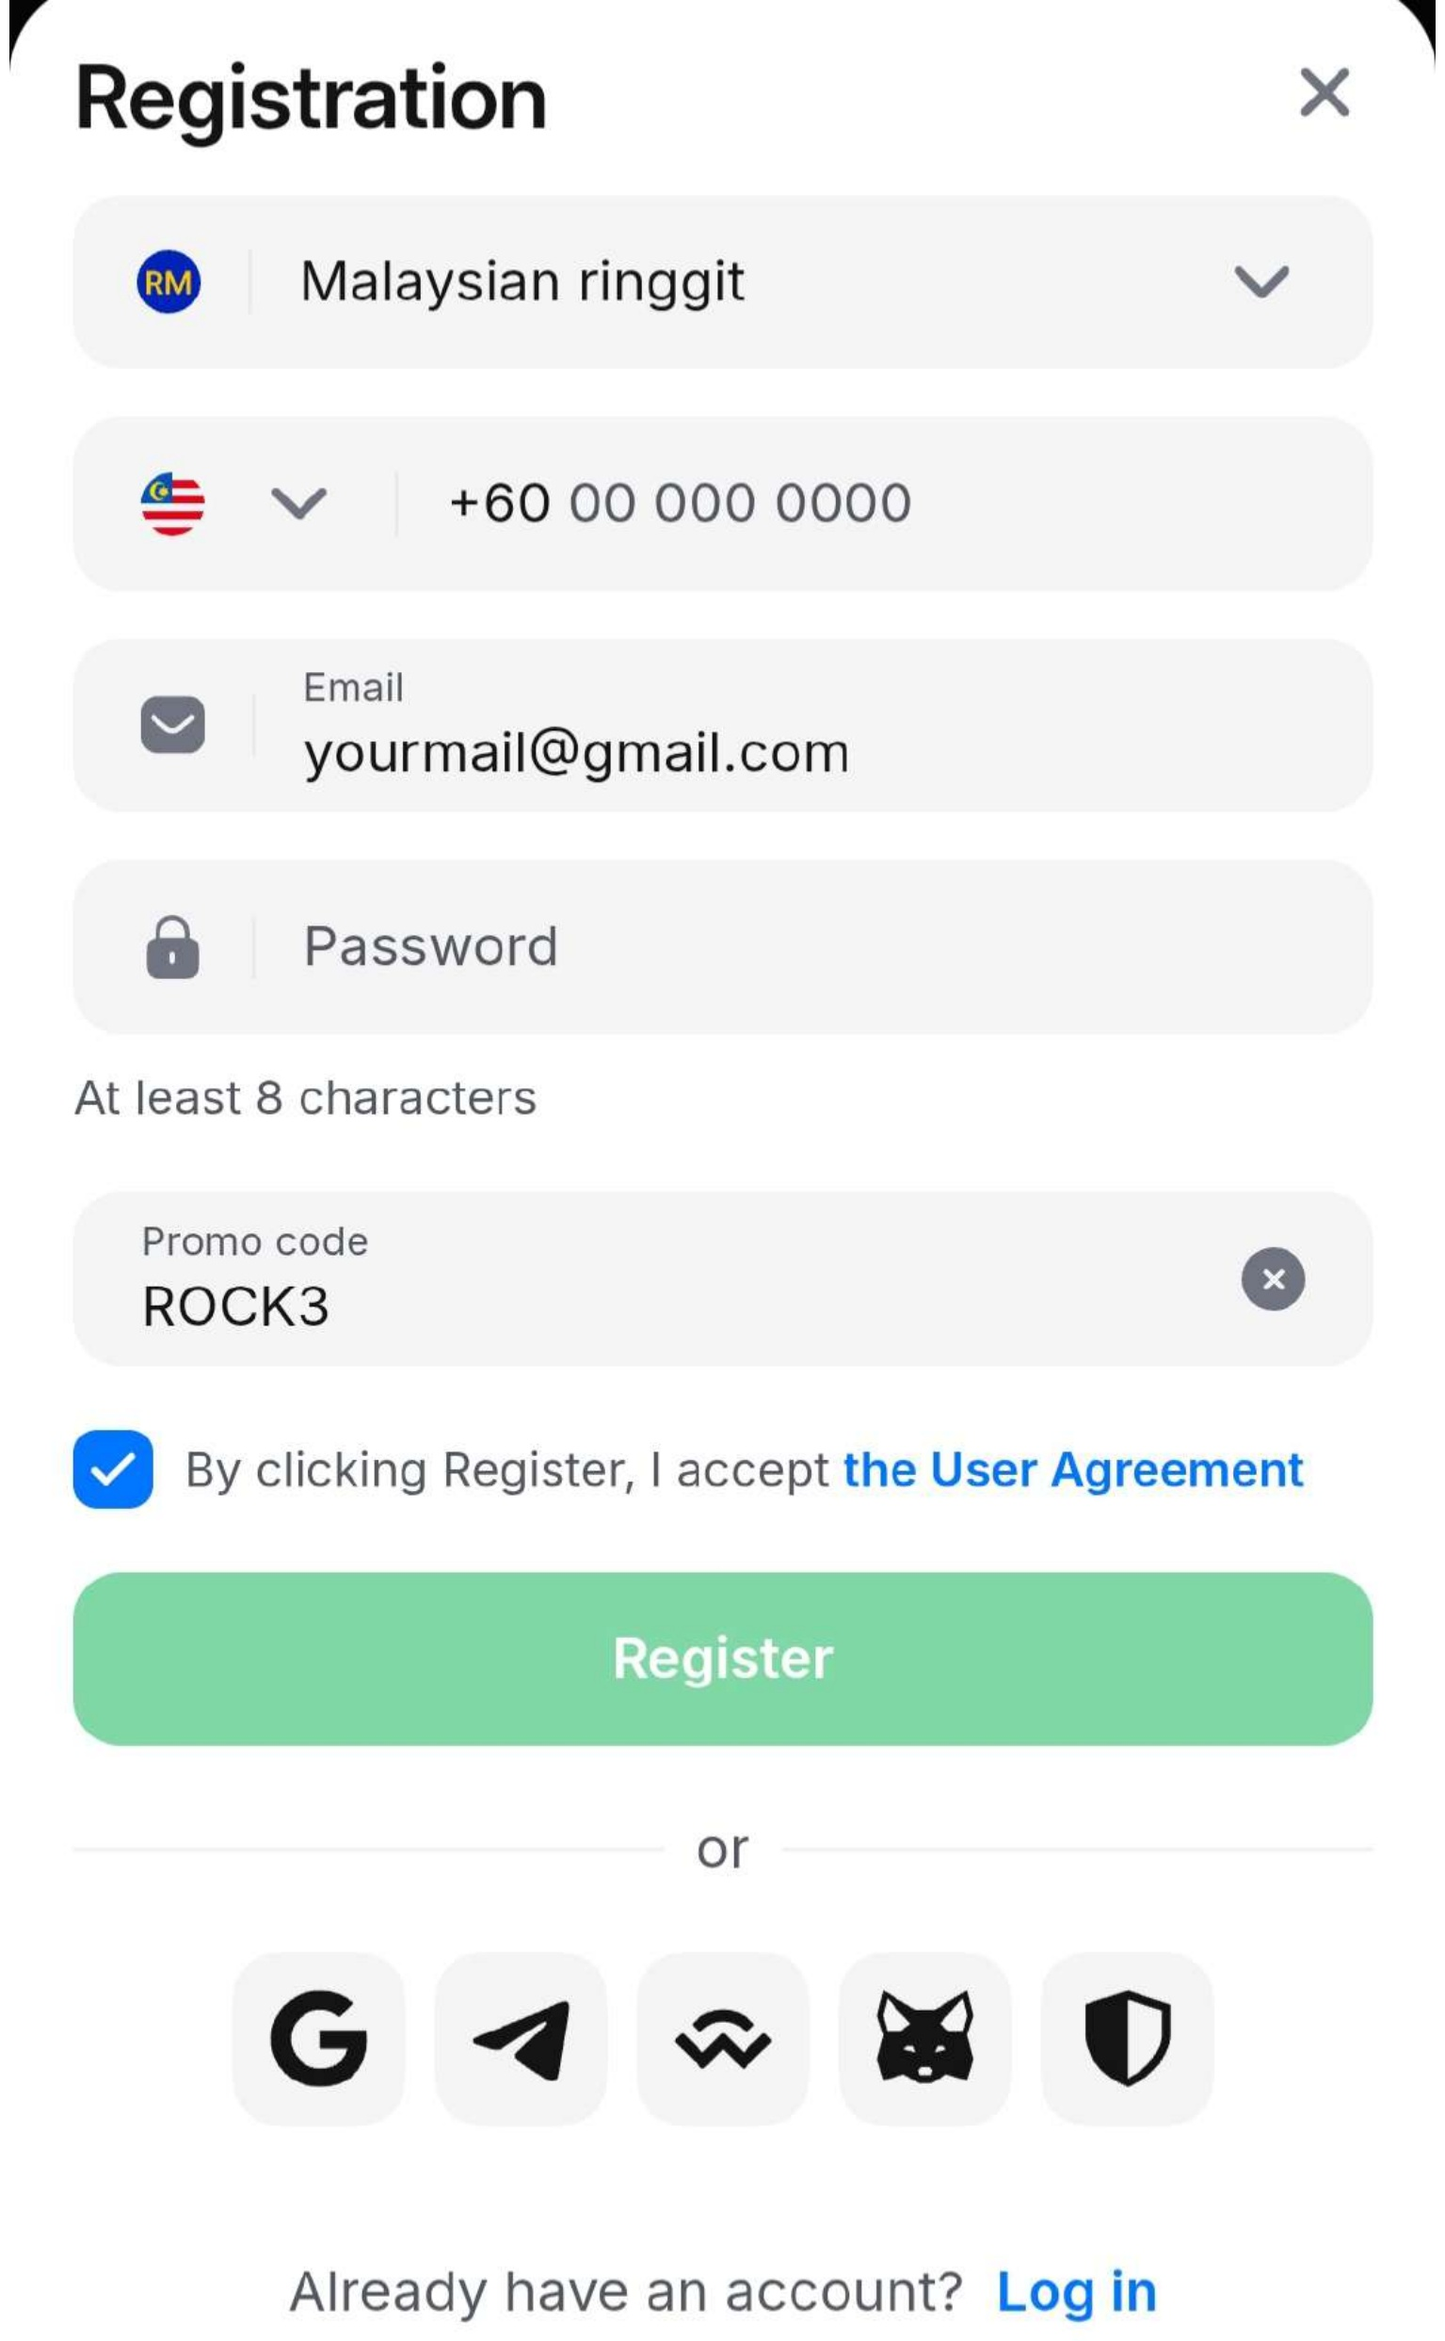
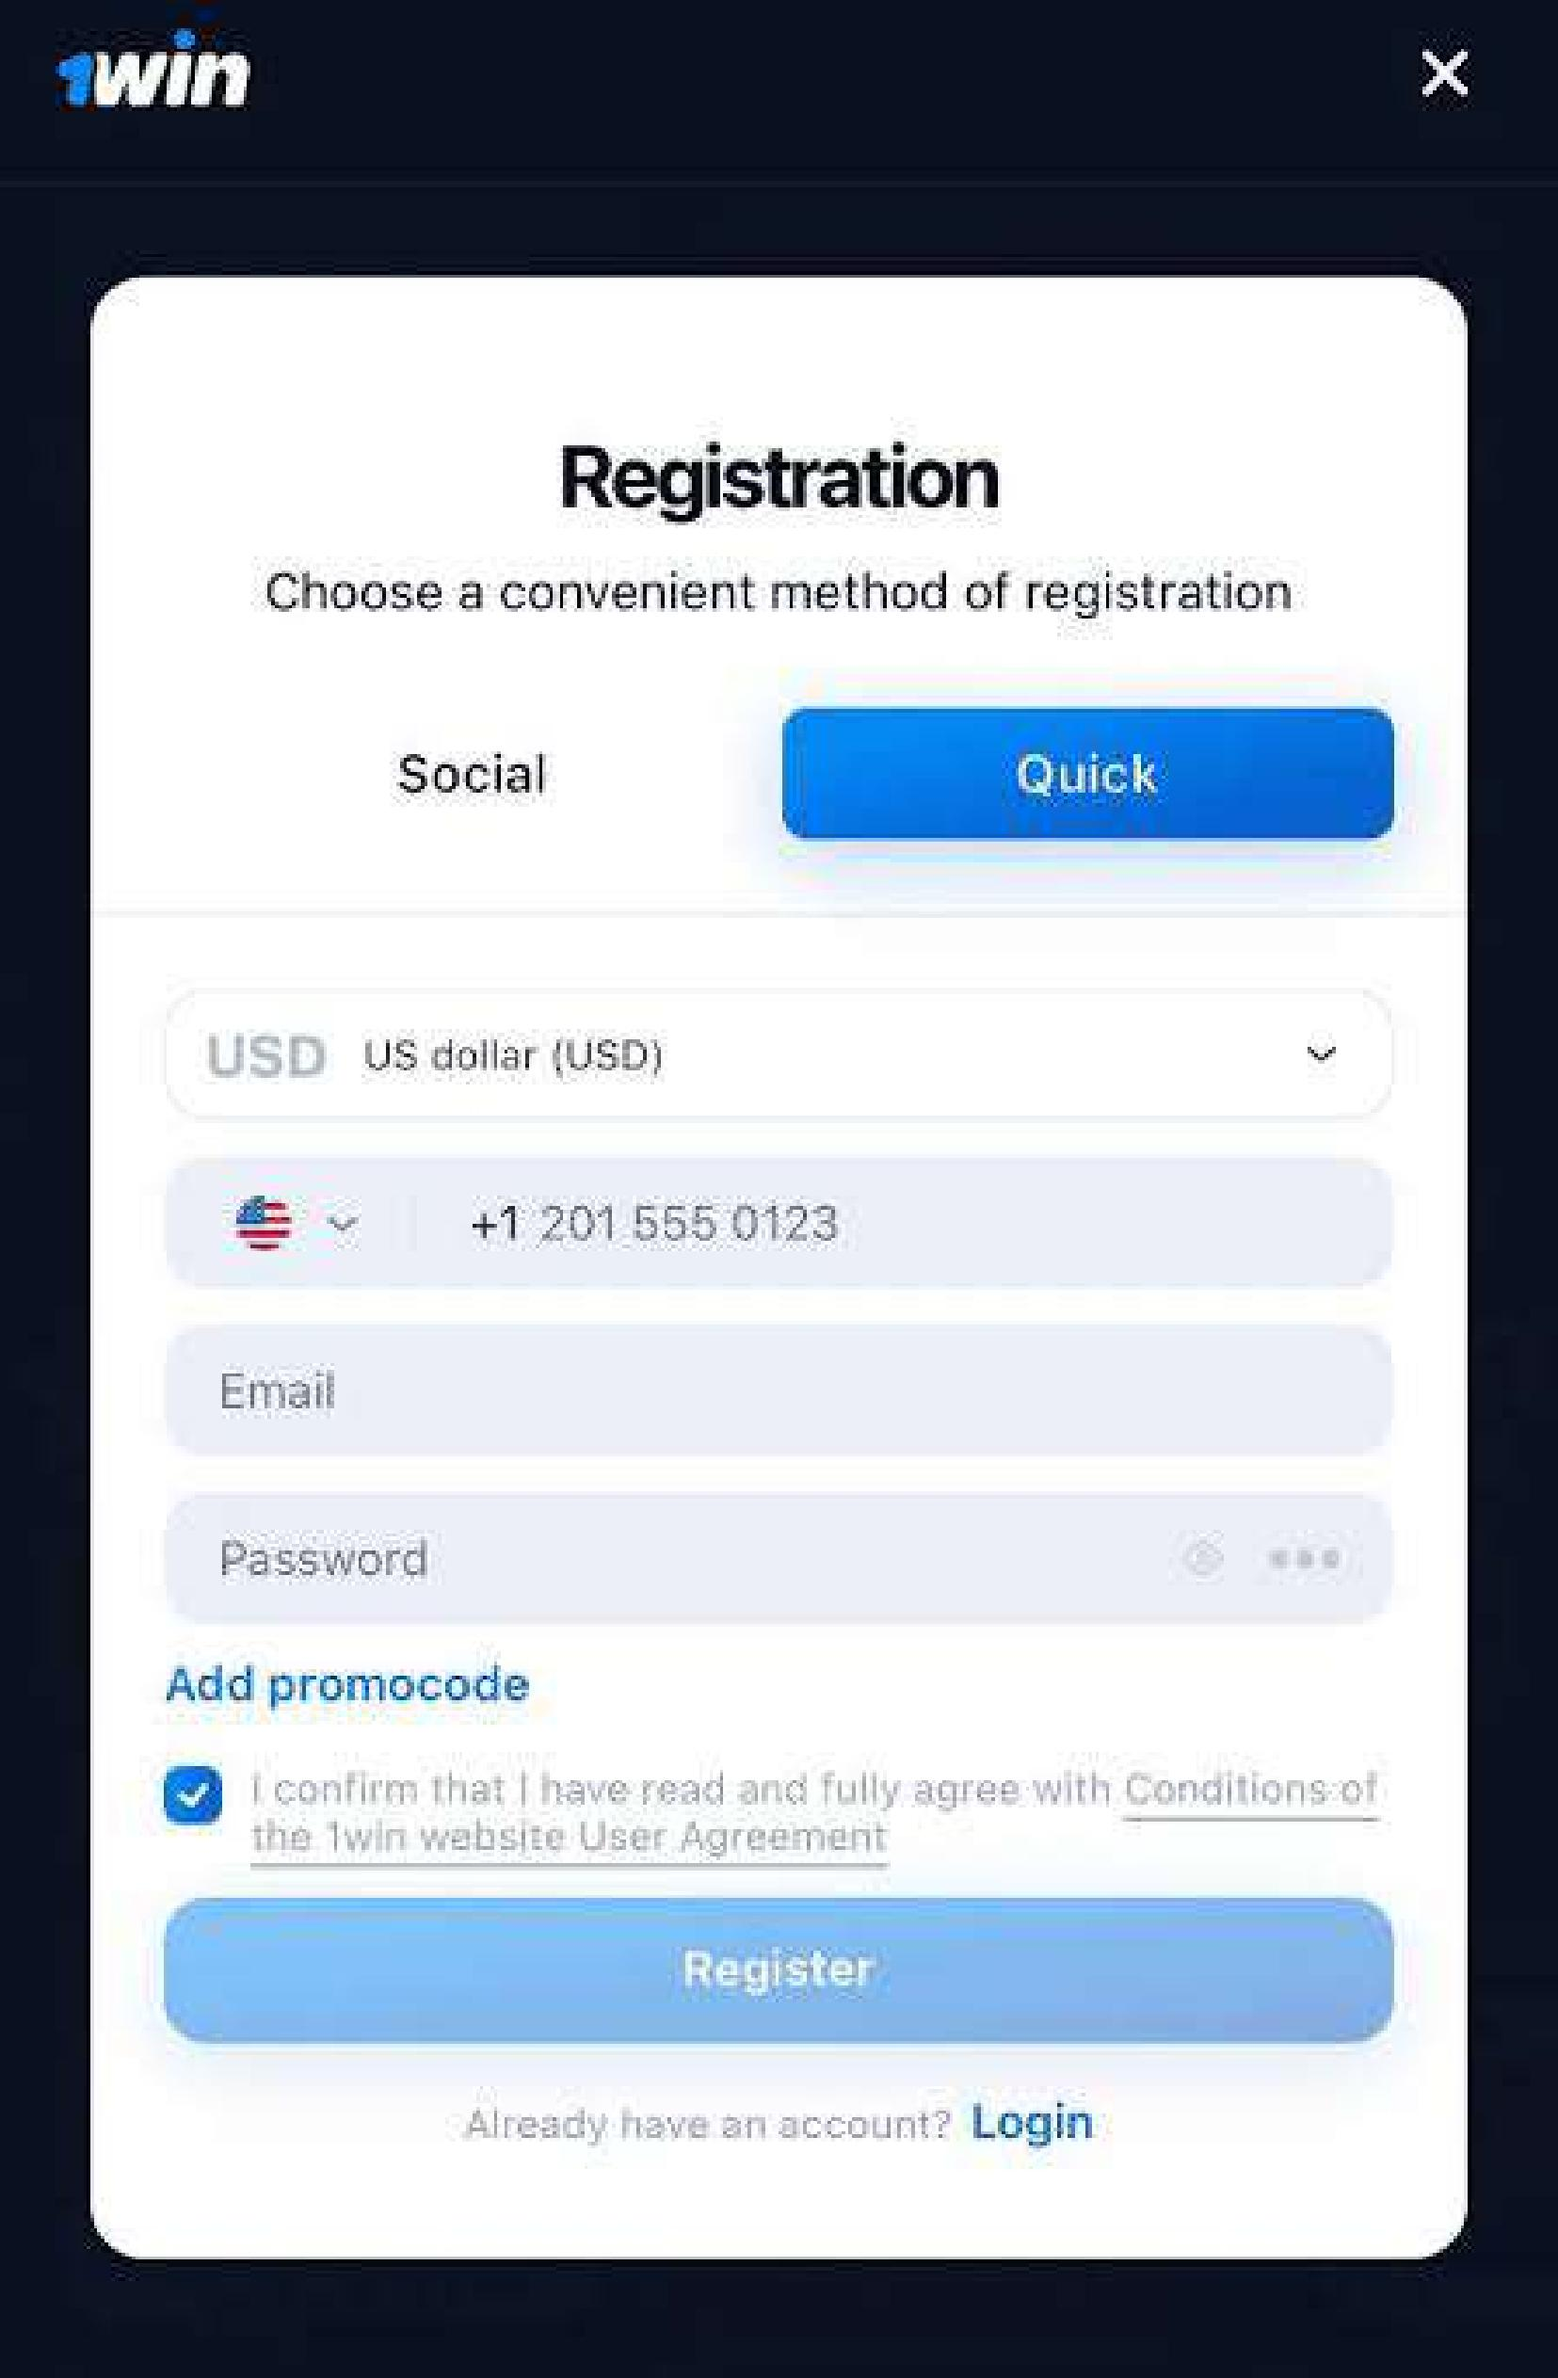
Add Mandarin Chinese (zh) and update Spanish (es) with user uploaded registration cards

diff --git a/locales.py b/locales.py
@@ -53,6 +53,12 @@ LANGUAGES = {
         "flag": "🇩🇪",
         "channel": "https://t.me/Royal_Bet_King6",
     },
+    "zh": {
+        "code": "zh",
+        "name": "中文 (Mandarin)",
+        "flag": "🇨🇳",
+        "channel": "https://t.me/Royal_Bet_King",
+    },
 }
 
 DEFAULT_LANG = "hi"
@@ -949,6 +955,110 @@ STRINGS = {
             "━━━━━━━━━━━━━━━━━━━━━━\n"
             "① Einzahlung abschließen\n"
             "② Sobald bestätigt, <b>senden Sie Ihre 1win-ID hierher</b>, um die Live-Signale zu starten! 🚀"
+        ),
+    },
+    # =========================================================
+    # 🇨🇳 MANDARIN CHINESE
+    # =========================================================
+    "zh": {
+        "lang_name": "中文",
+        "welcome": (
+            "👑 <b>皇家飞行员VIP精准预测器 • v4.2 PRO</b>\n"
+            "━━━━━━━━━━━━━━━━━━━━━━\n"
+            "👋 欢迎，<b>{first_name}</b>！\n\n"
+            "🟢 <b>系统状态：</b> 联机已同步\n"
+            "⚡ <b>信号准确率：</b> 99.4% 精确倍数\n"
+            "🎁 <b>VIP首充红利：</b> +500% 独家奖励\n\n"
+            "━━━━━━━━━━━━━━━━━━━━━━\n"
+            "🚀 <b>只需3个简单步骤即可激活：</b>\n"
+            "1⃣ 点击下方 <b>在 1WIN 注册</b> 创建新账户\n"
+            "2⃣ Promo Code 优惠码：<code>{promo_code}</code> <i>(点击复制)</i>\n"
+            "3⃣ 完成充值并在此发送您的 <b>1win 用户ID</b>！ ✅\n\n"
+            "━━━━━━━━━━━━━━━━━━━━━━\n"
+            "🎟 <b>专属优惠码：</b> <code>{promo_code}</code>\n"
+            "📲 <b>预测器应用：</b> <a href=\"{apk_url}\">点击下载 APK</a>\n\n"
+            "👇 <b>点击下方按钮或直接发送您的 1win ID：</b>"
+        ),
+        "btn_register": "🚀 在 1WIN 注册 (+500% 红利)",
+        "btn_apk": "📲 下载预测器 APK",
+        "btn_guide": "📖 新手图文指引",
+        "btn_promo": "🎟 复制优惠码",
+        "btn_enter_id": "🆔 提交 1WIN ID",
+        "btn_channel": "📢 官方 VIP 频道",
+        "btn_support": "💬 24/7 VIP 客服",
+        "btn_lang": "🌐 切换语言 / LANGUAGE",
+        "btn_change_id": "🔄 更换 ID",
+        "btn_main_menu": "🏠 主菜单",
+        "btn_try_again": "🔄 重试",
+        "btn_activate_signals": "👑 联系客服激活 VIP 信号",
+        "btn_deposit_guide": "💳 充值指南",
+        "promo_copied_toast": "优惠码: {promo_code} (已复制!)",
+        "promo_details": (
+            "🎟 <b>官方 VIP 专属优惠码</b>\n"
+            "━━━━━━━━━━━━━━━━━━━━━━\n\n"
+            "👉  <code>{promo_code}</code>  👈\n\n"
+            "<i>(点击代码即可复制!)</i>\n\n"
+            "✅ <b>VIP 特权：</b>\n"
+            "• 首次充值立享 <b>+500% 欢迎红利</b>\n"
+            "• 与 <b>Royal Aviator Predictor</b> 实时同步\n"
+            "• 极速优先提现通道"
+        ),
+        "enter_id_prompt": (
+            "🆔 <b>发送您的 1WIN 用户 ID</b>\n"
+            "━━━━━━━━━━━━━━━━━━━━━━\n"
+            "请在此输入并发送您的 <b>6 至 12 位 1win 账号 ID</b>。\n\n"
+            "📌 <i>示例：</i> <code>85492018</code>\n\n"
+            "👇 <b>请在下方输入框中直接发送：</b>"
+        ),
+        "step1": (
+            "📝 <b>第 1 步（共 3 步）：快速注册与优惠码</b>\n"
+            "━━━━━━━━━━━━━━━━━━━━━━\n"
+            "① 点击下方按钮打开 1win 注册页面\n"
+            "② 选择币种并输入您的<b>手机号与邮箱</b>\n"
+            "③ 在<b>优惠码（PROMO CODE）</b>栏填入：<code>{promo_code}</code>\n"
+            "④ 点击 <b>注册（Register）</b> 按钮。"
+        ),
+        "step2": (
+            "💳 <b>第 2 步（共 3 步）：选择充值方式</b>\n"
+            "━━━━━━━━━━━━━━━━━━━━━━\n"
+            "① 点击右上角绿色的 <b>充值（Deposit）</b> 按钮\n"
+            "② 选择您偏好的支付方式：<b>USDT / 银行卡 / 电子钱包</b>\n"
+            "③ 激活 VIP 信号的推荐充值金额：<b>10 USDT 以上</b>。"
+        ),
+        "step3": (
+            "✅ <b>第 3 步（共 3 步）：确认充值并激活 VIP</b>\n"
+            "━━━━━━━━━━━━━━━━━━━━━━\n"
+            "① 完成充值支付\n"
+            "② 账户余额到账后，<b>在此聊天中发送您的 1win 用户 ID</b>\n"
+            "③ 您的 VIP 预测器将立即自动激活！ 🚀"
+        ),
+        "verified": (
+            "━━━━━━━━━━━━━━━━━━━━━━\n"
+            "✅ <b>账户验证成功！</b>\n"
+            "━━━━━━━━━━━━━━━━━━━━━━\n\n"
+            "🆔 <b>您的 1win ID：</b> <code>{user_id}</code>\n"
+            "🟢 <b>同步状态：</b> 已成功连接预测器系统\n"
+            "⚡ <b>VIP 信号精准度：</b> 99.4%\n\n"
+            "━━━━━━━━━━━━━━━━━━━━━━\n"
+            "🚀 <b>如何开始盈利：</b>\n"
+            "1⃣ 打开 1win 平台上的 <b>Aviator</b> 游戏\n"
+            "2⃣ 保持此聊天窗口开启或下载 APK\n"
+            "3⃣ 按照实时信号倍数自动兑现获利！ 💰\n\n"
+            "👇 <b>点击下方按钮进入官方 VIP 频道获取实时信号：</b>"
+        ),
+        "rejected": (
+            "━━━━━━━━━━━━━━━━━━━━━━\n"
+            "❌ <b>账户未验证！</b>\n"
+            "━━━━━━━━━━━━━━━━━━━━━━\n\n"
+            "🆔 <b>输入的 ID：</b> <code>{user_id}</code>\n\n"
+            "⚠ <b>该 ID 未通过我们的官方链接或优惠码 ({promo_code}) 注册！</b>\n\n"
+            "VIP 预测器与 99.4% 精准信号仅与通过官方邀请链接创建的账户同步。\n\n"
+            "━━━━━━━━━━━━━━━━━━━━━━\n"
+            "🚀 <b>如何正确激活：</b>\n"
+            "1⃣ 点击下方 <b>在 1WIN 注册</b> 按钮\n"
+            "2⃣ 创建新账户时务必填写优惠码 <code>{promo_code}</code>\n"
+            "3⃣ 完成首充并在此发送您的新 ID，即可秒级验证！ ✅\n\n"
+            "<i>如果您确已通过我们链接注册，请联系客服：</i> {support_username}"
         ),
     },
 }

diff --git a/bot.py b/bot.py
@@ -170,15 +170,18 @@ def get_language_keyboard():
             InlineKeyboardButton("🇬🇧 English", callback_data="set_lang:en"),
         ],
         [
+            InlineKeyboardButton("🇨🇳 中文 (Chinese)", callback_data="set_lang:zh"),
             InlineKeyboardButton("🇵🇹 Português", callback_data="set_lang:pt"),
+        ],
+        [
             InlineKeyboardButton("🇪🇸 Español", callback_data="set_lang:es"),
-        ],
-        [
             InlineKeyboardButton("🇫🇷 Français", callback_data="set_lang:fr"),
-            InlineKeyboardButton("🇹🇷 Türkçe", callback_data="set_lang:tr"),
         ],
         [
+            InlineKeyboardButton("🇹🇷 Türkçe", callback_data="set_lang:tr"),
             InlineKeyboardButton("🇹🇭 ไทย (Thai)", callback_data="set_lang:th"),
+        ],
+        [
             InlineKeyboardButton("🇩🇪 Deutsch", callback_data="set_lang:de"),
         ],
     ])
@@ -273,6 +276,7 @@ async def start(update: Update, context: ContextTypes.DEFAULT_TYPE):
             "आगे बढ़ने के लिए कृपया अपनी भाषा चुनें:\n\n"
             "• 🇮🇳 <b>हिन्दी</b> (Hindi)\n"
             "• 🇬🇧 <b>English</b>\n"
+            "• 🇨🇳 <b>中文</b> (Chinese)\n"
             "• 🇵🇹 <b>Português</b>\n"
             "• 🇪🇸 <b>Español</b>\n"
             "• 🇫🇷 <b>Français</b>\n"
